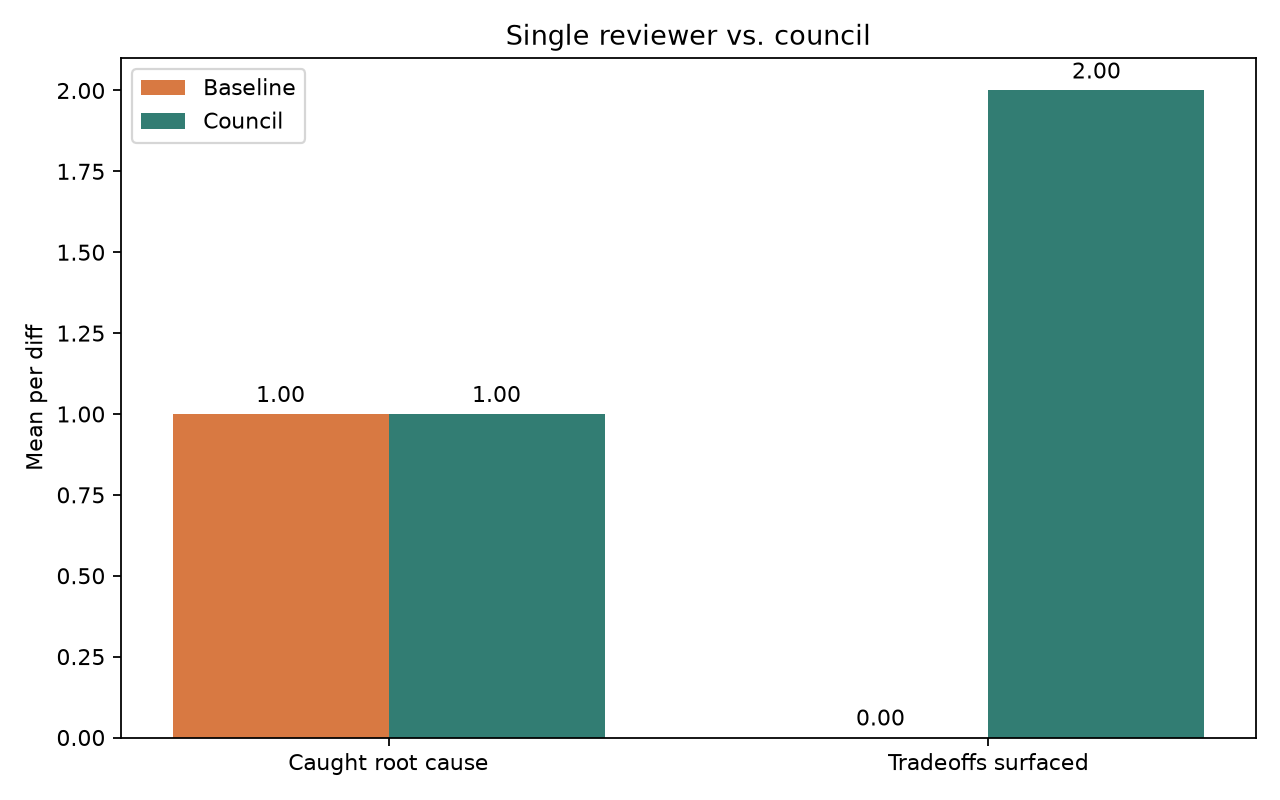
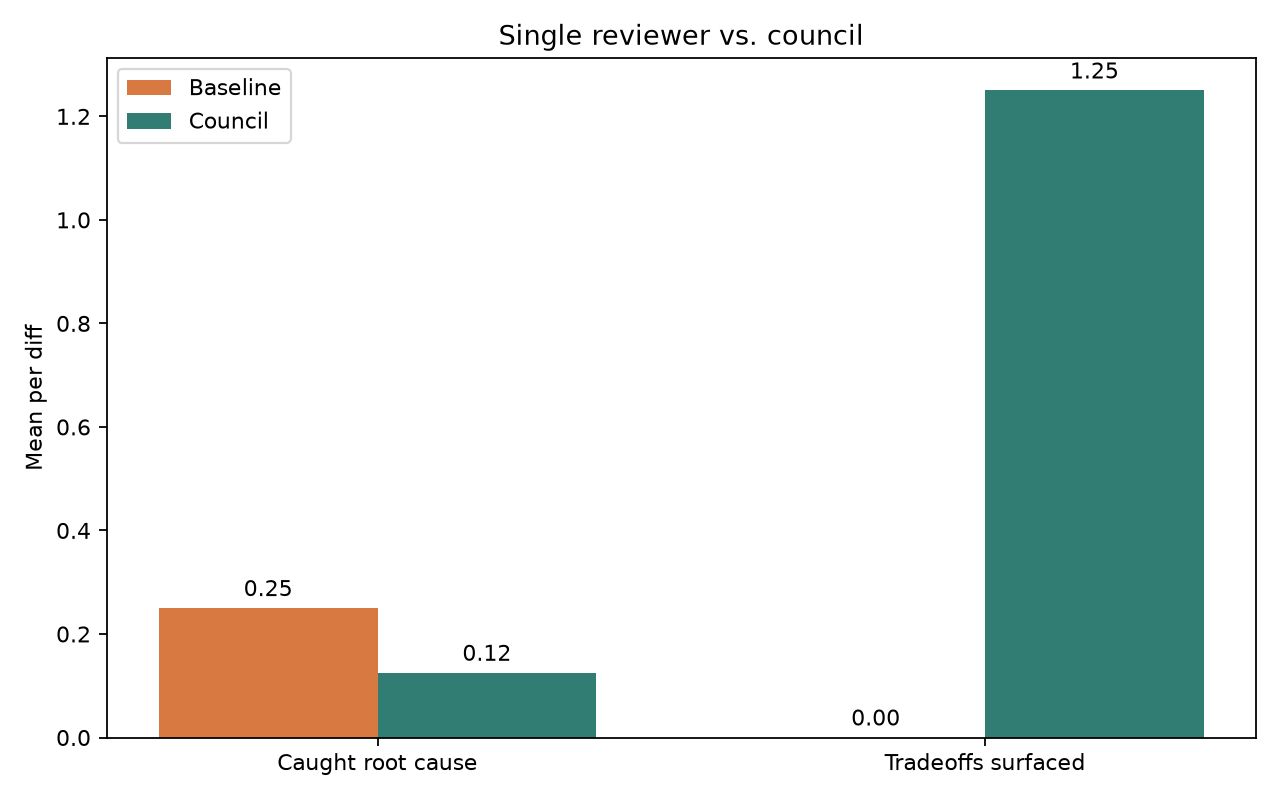
full eval run across G7 dataset

diff --git a/eval/run_eval.py b/eval/run_eval.py
@@ -165,7 +165,8 @@ def _parse_yes_no(response: str) -> bool:
 async def _score_root_cause(ground_truth: str, review: dict[str, Any]) -> bool:
     evaluator_prompt = (
         "You are a strict evaluation judge. Decide whether the review explicitly "
-        "identifies the stated root cause. Return only yes or no. Do not give credit "
+        "identifies the stated root cause. Respond with only a JSON object of the form "
+        '{"answer": "yes"} or {"answer": "no"}. Do not give credit '
         "for a related concern that does not identify the root cause."
     )
     response = await call_llm(
